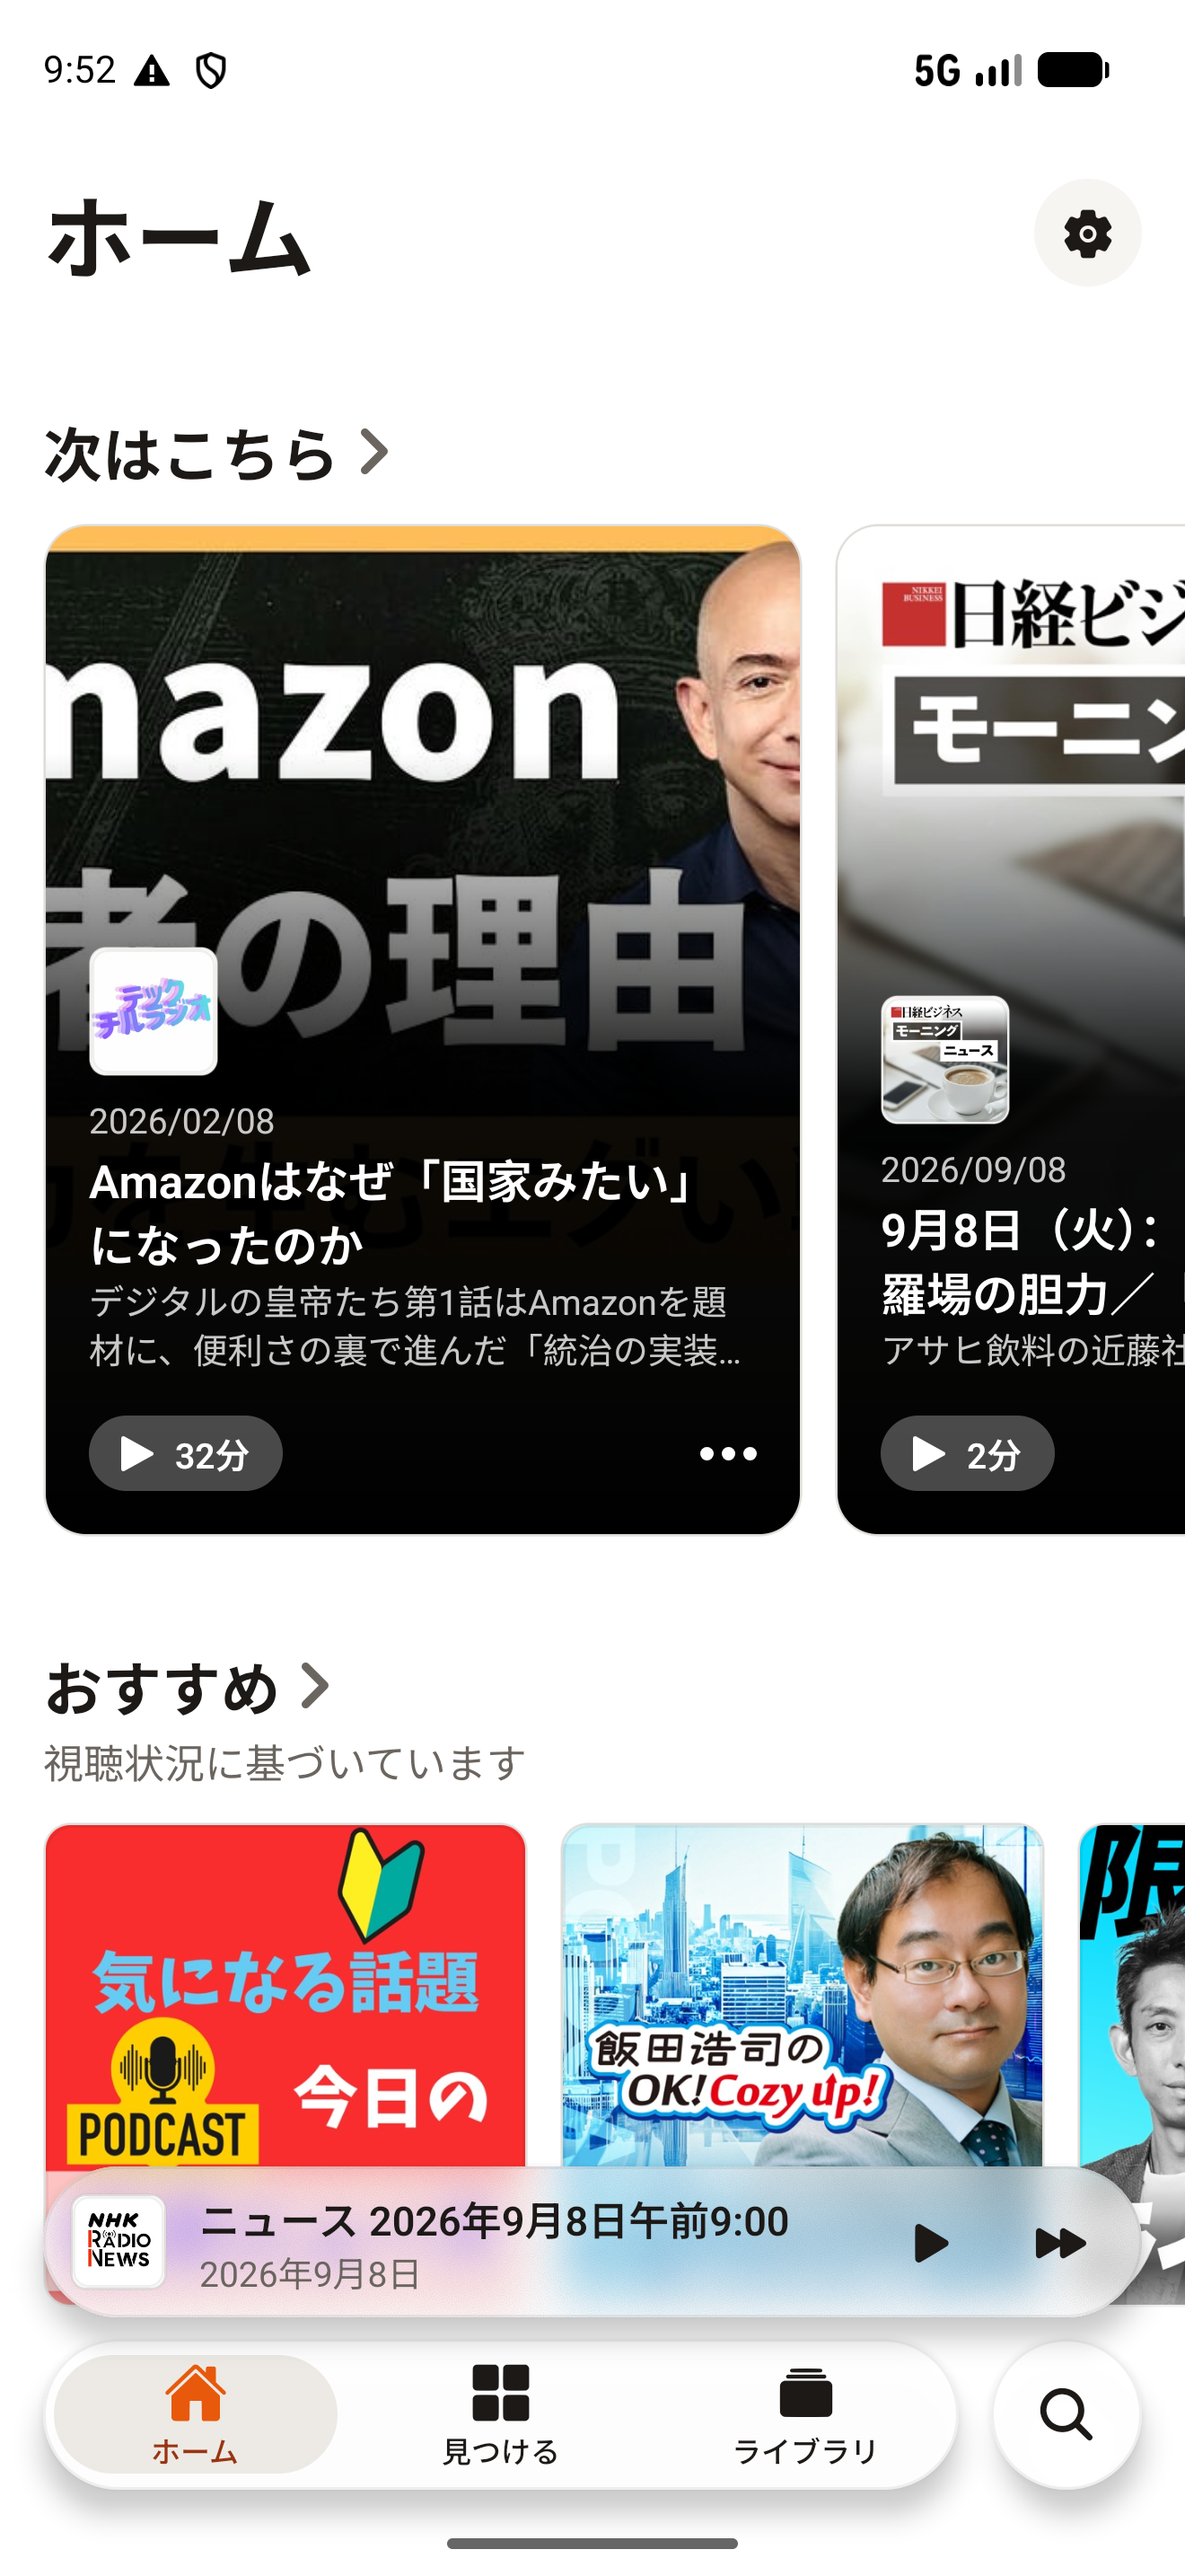
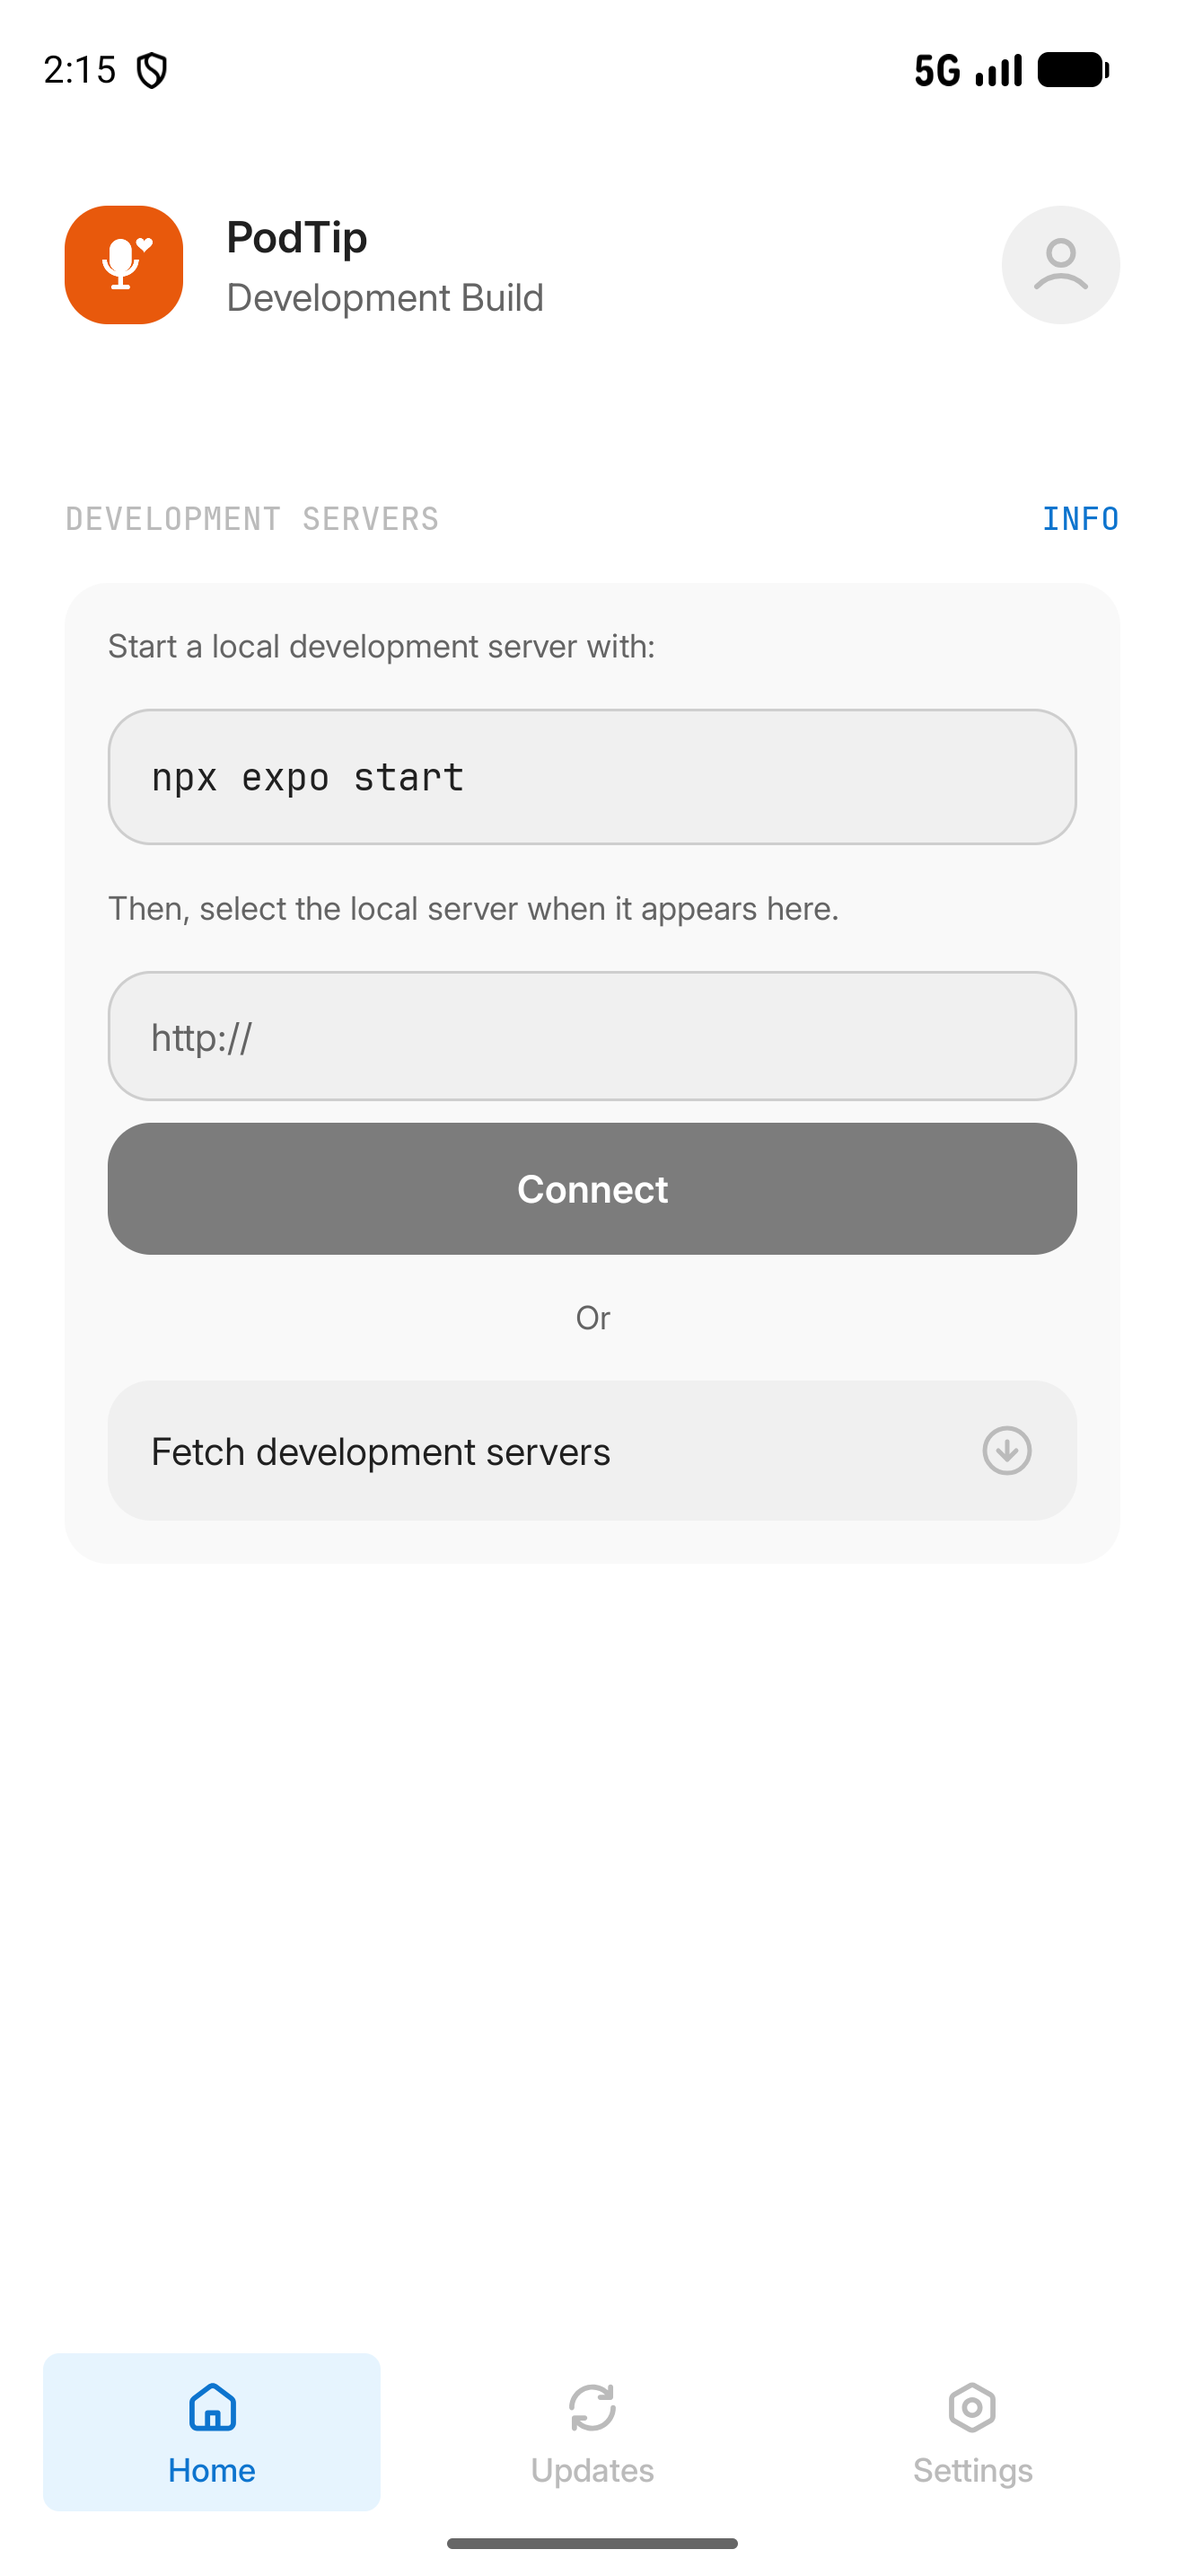
スクリーンショットをコンソールデザインの最新版に更新する
9/8 撮影の旧デザイン（1.0.0 頃）から、コンソールリデザイン後の
最新画面（ホーム・再生画面・応援リクエスト）に差し替えた。
alt テキストとキャプションも新しい画面内容に合わせて更新し、
応援画面に付いていた「画像は更新予定です」注記を削除した。

diff --git a/index.html b/index.html
@@ -116,20 +116,20 @@
         <ul class="shots">
           <li>
             <figure>
-              <img class="screenshot" src="assets/screenshots/01-home.png" alt="ホーム画面。「次はこちら」という続きから聴ける回のカードが並んでいる様子">
+              <img class="screenshot" src="assets/screenshots/01-home.png" alt="ホーム画面。ダークなコンソール風のデザインで、「次はこちら」という続きから聴ける回のカードと人気の番組が並んでいる様子">
               <figcaption>ホーム — 「次はこちら」から前回の続きを聴く</figcaption>
             </figure>
           </li>
           <li>
             <figure>
-              <img class="screenshot" src="assets/screenshots/02-player.png" alt="再生画面。番組アートワークの色を使った大きな画面で、シークバーや速度、スリープタイマーなどの操作が並んでいる様子">
-              <figcaption>再生画面 — 番組の色になった画面で聴く</figcaption>
+              <img class="screenshot" src="assets/screenshots/02-player.png" alt="再生画面。番組アートワークの色に染まったコンソール風の画面で、テープカウンター風の時刻表示・シークバー・速度やスリープタイマーの操作が並んでいる様子">
+              <figcaption>再生画面 — 番組の色になったコンソールで聴く</figcaption>
             </figure>
           </li>
           <li>
             <figure>
-              <img class="screenshot" src="assets/screenshots/03-tip.png" alt="応援の送信画面。♡ 応援リクエストとして、聴いている回の情報とともに気持ちを送る様子">
-              <figcaption>応援 — ♡ で気持ちを送る（画像は更新予定です）</figcaption>
+              <img class="screenshot" src="assets/screenshots/03-tip.png" alt="応援リクエストの送信画面。聴いている回の情報とともに「13:57 の瞬間に応援」のように再生位置を添えて、♡ の気持ちを送る様子">
+              <figcaption>応援 — ♡ で気持ちを送る</figcaption>
             </figure>
           </li>
         </ul>
